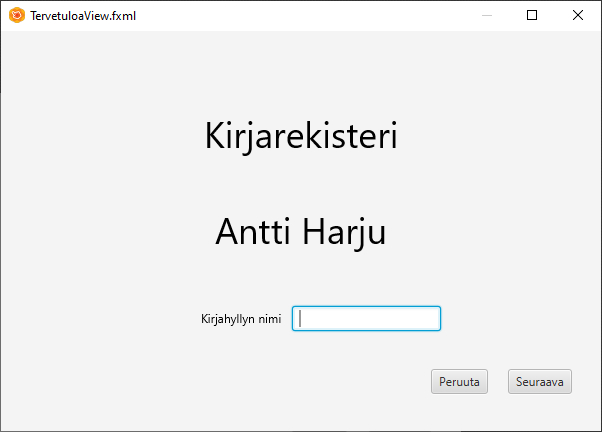
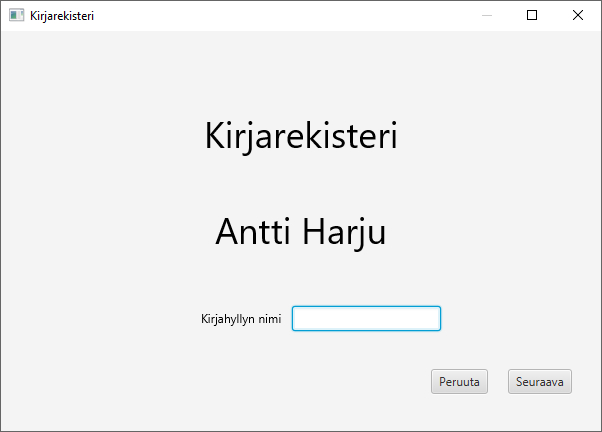
jar + toimintoja + kuvia

Changed region(s): [[0.7475, 0.0, 1.0, 1.0], [0.0, 0.0, 0.2392, 0.0602], [0.4784, 0.7222, 0.5083, 0.7523]]

diff --git a/src/fxKirjat/KirjatGUIController.java b/src/fxKirjat/KirjatGUIController.java
@@ -4,6 +4,8 @@ import fi.jyu.mit.fxgui.Dialogs;
 import fi.jyu.mit.fxgui.ModalController;
 import javafx.application.Platform;
 import javafx.fxml.FXML;
+import javafx.scene.control.Alert;
+import javafx.scene.control.Alert.AlertType;
 
 /**
  * @author anvemaha
@@ -13,6 +15,21 @@ import javafx.fxml.FXML;
 public class KirjatGUIController {
 
     @FXML
+    void handleMuokkaa() {
+        ModalController.showModal(
+                KirjatGUIController.class.getResource("MuokkaaView.fxml"),
+                "Muokkaa kirjaa", null, "");
+    }
+
+
+    @FXML
+    void handleLisää() {
+        Dialogs.showMessageDialog("Vielä ei osata lisätä kirjoja");
+        // TODO: Käyttää samaa pohjaa kuin muokkaa
+    }
+
+
+    @FXML
     void handleApua() {
         Dialogs.showMessageDialog("Vielä ei osata auttaa");
     }
@@ -20,16 +37,9 @@ public class KirjatGUIController {
 
     @FXML
     void handleAvaa() {
-        Dialogs.showMessageDialog("Vielä ei osata avata kirjoja");
-    }
-
-
-    @FXML
-    void handleLisää() {
-        // Dialogs.showMessageDialog("Vielä ei osata lisätä kirjoja");
         ModalController.showModal(
-                KirjatGUIController.class.getResource("MuokkaaView.fxml"),
-                "Kirjat", null, "");
+                KirjatGUIController.class.getResource("TervetuloaView.fxml"),
+                "Kirjarekisteri", null, "");
     }
 
 
@@ -42,7 +52,12 @@ public class KirjatGUIController {
 
     @FXML
     void handlePoista() {
-        Dialogs.showMessageDialog("Vielä ei osata poistaa kirjoja");
+        // Dialogs.showMessageDialog("Vielä ei osata poistaa kirjoja");
+        Alert alert = new Alert(AlertType.CONFIRMATION);
+        alert.setTitle("Poista");
+        alert.setHeaderText(null);
+        alert.setContentText("Poista kirja Adeno?");
+        alert.showAndWait();
     }
 
 
@@ -57,7 +72,7 @@ public class KirjatGUIController {
         // Dialogs.showMessageDialog("Vielä ei tiedetä mitään");
         ModalController.showModal(
                 KirjatGUIController.class.getResource("TietojaView.fxml"),
-                "Kirjat", null, "");
+                "Tietoja", null, "");
     }
 
 
@@ -66,7 +81,6 @@ public class KirjatGUIController {
         // Dialogs.showMessageDialog("Vielä ei osata tulostaa");
         ModalController.showModal(
                 KirjatGUIController.class.getResource("TulostaView.fxml"),
-                "Kirjat", null, "");
+                "Tulosta", null, "");
     }
-
 }

diff --git a/src/fxKirjat/KirjatMain.java b/src/fxKirjat/KirjatMain.java
@@ -26,7 +26,7 @@ public class KirjatMain extends Application {
             primaryStage.show();
         } catch(Exception e) {
             e.printStackTrace();
-        }
+        } 
     }
 
     /**
